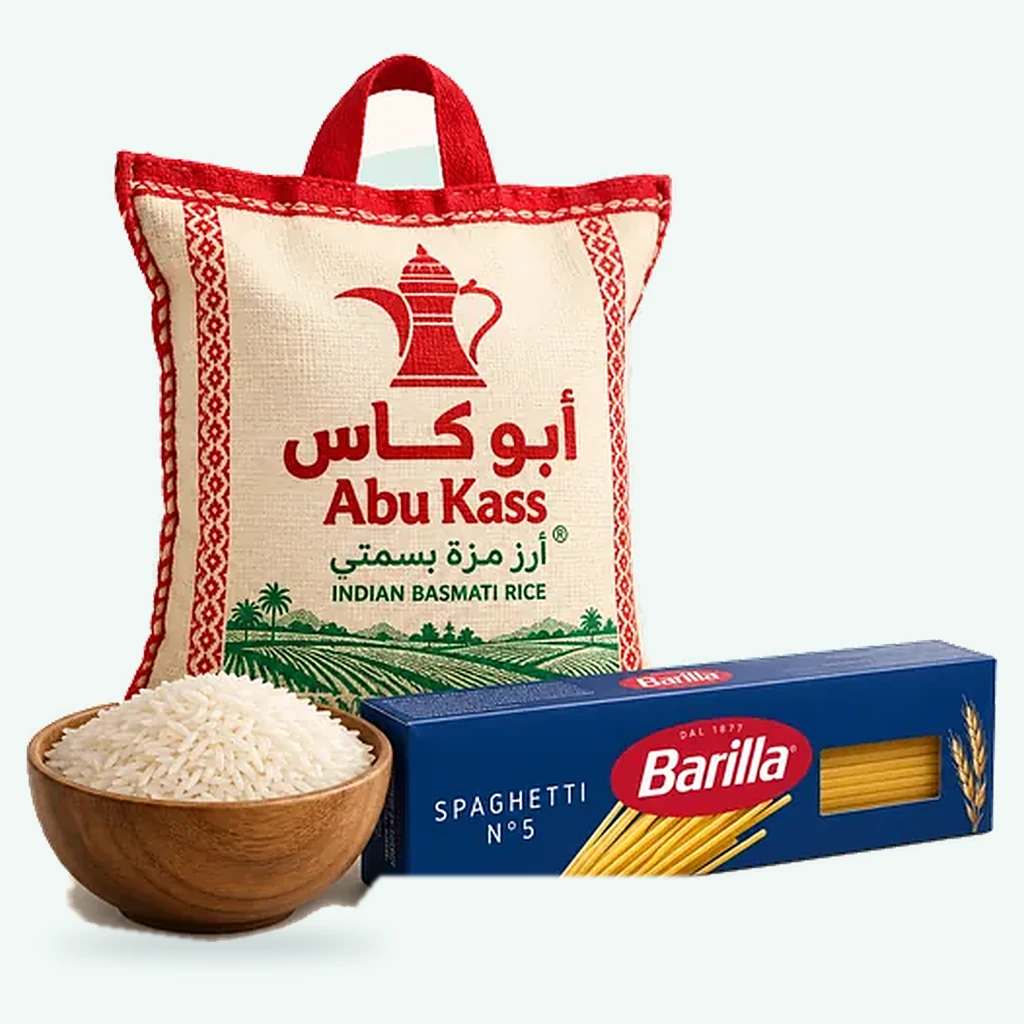
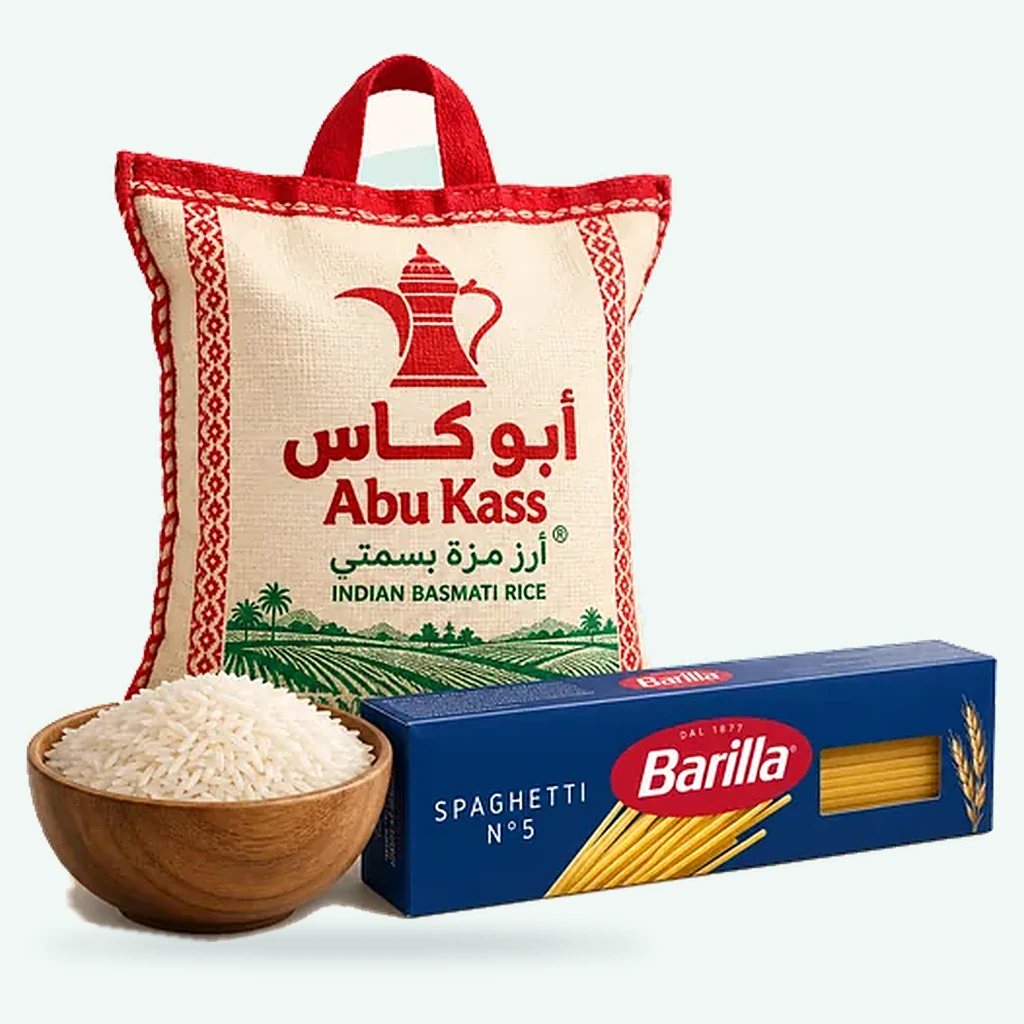
Category tiles: round 2 critique, 68 of 70 live
Claude-Session: https://claude.ai/code/session_01Qb8xUvC7Auf1qNT2o2kfnj

Changed region(s): [[0.3438, 0.8438, 0.6875, 0.9375]]

diff --git a/design/outputs/category-tiles/CRITIQUE-tiles.md b/design/outputs/category-tiles/CRITIQUE-tiles.md
@@ -166,3 +166,96 @@
 \* 101 يرفع بعد تثبيت اسمه في اللوحة ("اللحوم" أو "لحم البقر والضأن").
 
 **بعد الإصلاح:** تعود المربعات الـ 13 إلى الناقد لجولة قصيرة، فلا تُرفع مباشرة.
+
+---
+
+## Round 2: مراجعة الإصلاحات (2026-10-23)
+
+**المراجَع:**
+- 13 مربعاً محجوباً أُصلحت.
+- 4 بدائل اختيارية v2، بحسب `HANDOFF-tiles.md` القسم 00.
+
+**الطريقة:**
+- القياس بسكربتي نفسه، وعتبته 10 درجات بعد استبعاد ظل التلامس.
+- فحص بصري بالدقة الكاملة (1024) وبمقاس 500px.
+- التحقق من "ما نبيعه" بالعنوان في `jarna/t_all.json` (حقل `product_details`، 7464 منتجاً).
+
+**لم أعدّل أي صورة، ولم أنفّذ commit.**
+
+### R2.1 الحكم
+
+| | المربعات |
+|---|---|
+| **يُعتمد ويُرفع الآن (11 + 2 بديل)** | 11، 16، 17، 19، 22، 34، 35، 43، 51، 53، 106، و**`cat44-v2`** و**`cat64-v2`** بدلاً من 44 و64 الحاليين |
+| **ما زال محجوباً (2)** | **9** و**12**: الإصلاح ترك أثراً جديداً أو بقية من العيب القديم (انظر R2.3) |
+| **بدائل v2 مرفوضة (يبقى الحالي)** | **`cat27-v2`** و**`cat102-v2`** (انظر R2.4). المربعان 27 و102 الحاليان معتمدان من الجولة الأولى ويبقيان |
+
+### R2.2 القياس
+
+**كل المربعات الـ 17 تجتاز العتبات. ورقم 101: اسمه في اللوحة "اللحوم"، كما أكّد المنسّق، فيُرفع.**
+
+| المربع | المساحة | الارتفاع | العرض | ملاحظة |
+|---|---|---|---|---|
+| 9 | 45.1 | 86.9 | 94.9 | |
+| 11 | 50.7 | 87.5 | 94.7 | |
+| 12 | 43.9 | 87.2 | 81.4 | |
+| 16 | 58.1 | 87.3 | 92.9 | |
+| 17 | 61.2 | 87.1 | 95.2 | |
+| 19 | 44.7 | **75.3** | 95.2 | على الحد |
+| 22 | 45.7 | 86.9 | 84.4 | |
+| 34 | 63.7 | 86.0 | 95.1 | |
+| 35 | 66.4 | 87.5 | 95.0 | |
+| 43 | 59.2 | 87.4 | 95.2 | |
+| 51 | 70.4 | 87.5 | 94.7 | |
+| 53 | 53.3 | 87.5 | 92.7 | |
+| 106 | 67.4 | 79.3 | 94.9 | |
+| 27-v2 | 58.0 | 87.5 | 80.7 | 3 منتجات |
+| 44-v2 | 54.0 | 87.5 | 94.5 | بعتبة 25 درجة: 39.8%، بسبب الكيس الشفاف |
+| 64-v2 | 71.0 | 87.1 | 95.2 | الحالي ارتفاعه 75.8% |
+| 102-v2 | 57.1 | 87.3 | 95.1 | الحالي مساحته 43.2% |
+
+**لقطات أخرى:**
+- **القياس المعلن:** يطابق قياسي في كل الصفوف (فرق ≤ 1 نقطة).
+- **الخلفية:** `#F1F8F6` في الزاوية. ولا يقصّ شيئاً من المنتجات نصفُ قطر الزوايا.
+
+### R2.3 لكل مربع: العيب السابق، والجديد، وما نبيعه
+
+| المربع | العيب السابق | عيب جديد؟ | ما نبيعه (`t_all.json`) | الحكم |
+|---|---|---|---|---|
+| **9** | زال الظل الدرجي | **نعم: القناع قصّ الركن السفلي الأيسر لعلبة باريلا.** حافة العلبة السفلية مقطوعة أفقياً، وتحتها مستطيل فاتح حاد الحواف بين الوعاء والعلبة (نحو x 400–440، y 880–900) | Abu Kass، وBarilla N°5 Spaghetti 500 g | **محجوب.** يُعاد القناع ليتبع حافة العلبة، أو تُكمَل حافة العلبة السفلية، ثم يُطبَّق الظل الموحد تحتها |
+| **12** | زالت بقعة الظل البيج، و**بقي جزء من الخط الرمادي**: عقب داكن نحو 25×4px يخرج من يمين الطماطم الأمامية (نحو x 455–475، y 870) | لا | Heinz Tomato Ketchup، وTabasco Red Pepper 60 ml | **محجوب.** إصلاح دقيقة: يُمسح العقب. غير مرئي بمقاس 150px، لكن العيب الذي حُجب بسببه لم يزل كاملاً |
+| 11 | زال: لا وعاء، واسم قوت آند روت كامل | لا. الكيس بحوافه البلاستيكية الشفافة نظيف | Qoot & Root Superior flour 1 kg، وFoster Clarks Baking Powder 225 g | **يُعتمد** |
+| 16 | زال الشريط الأزرق. حافة العلبة مخفية خلف وايت هارفست | علبة الشوفان تغطي "S" من FLAKES، والاسم مقروء | Kellogg's Corn Flakes، وWhite Harvest Oats 400 g | **يُعتمد** |
+| 17 | زال: نوتيلا كاملة بغطائها الأبيض | لونا تغطي جزءاً من "FERRERO" الصغيرة فقط، و"nutella" كاملة | Nutella … 400 g، وLuna Peanut Butter Crunchy 340 g | **يُعتمد** |
+| 19 | زال: لا ملعقة ولا بودرة، والصحن سليم | لا. الارتفاع 75.3% على الحد | Langnese Bee Honey Natural 250 g | **يُعتمد** (يُستحسن تكبير 2–3% لاحقاً) |
+| 22 | زال: الربيع بدل Al Kabie | لا. حافة نصف البرتقالة والكرتون نظيفتان | Alrabie Orange Juice 1 L. ومانجو المراعي يقابله "Almarai Mango & Grape Nectar 300 ml" (العبوة نفسها) | **يُعتمد** |
+| 34 | زال: علبتان قائمتان بطبيعتهما، وكلا الاسمين مقروء | لا | Saudia Ice Cream Chocolate Tubs 1 L، وQUANTA ICE Almond Stick Mini 6×50 ml | **يُعتمد** |
+| 35 | زال: لا وعاء ولا ملعقة، و"مهباج" كاملة | لا | Tak Tat USA Almond 250 g، وAlmehbaj (مشكّل فاخر 250 جم، في `b*_meta`) | **يُعتمد** |
+| 43 | زال: أكياس حفظ طعام وعلب ميكروويف، ويُقرأ "حفظ الطعام" فوراً | لا | Sanita Food Storage Bags 25، وHotpack HD Microwave Container 750 ml 10 Pcs | **يُعتمد** |
+| 51 | زال: لا موس ولا ماكينة | عبوة Blue II تغطي "e" الأخيرة من Gillette ورقم "4". الاسم مقروء، والعلامة مكررة على العبوة الثانية. منخفضة | Gillette Blue 3 Blade Razor 4 Pcs، وGillette Blue 2 Shaving Razor 10 Pcs | **يُعتمد** (يُستحسن إزاحة Blue II يميناً 3–4%) |
+| 53 | زال: لا لوريال | لطخة اللون الوردي خلف أحمر الخدود وغطاء الأصبع الأبيض خلف الباليت من صورة المصدر نفسها، لا بقايا قصّ. يُقرأ مكياجاً فوراً | Bogenia Natural Glow Blush Stick 001، وBogenia Eyeshadow Palette Galaxy 12 002 | **يُعتمد** |
+| 106 | زال: ساديا الصفراء تختلف بوضوح عن 15 (سيارا برتقالية)، واللحم ظاهر | لا | Sadia Marinated Breast Arabic Spices 600 g، وRadwa Frozen Breast Fillet 450 g | **يُعتمد** |
+
+### R2.4 البدائل v2: هل هي أفضل من الحالي؟
+
+| الملف | أفضل؟ | الدليل | الحكم |
+|---|---|---|---|
+| **`cat44-v2`** | **نعم، بفارق صغير** | الحلقة الزرقاء على الصحن تفصله عن الخلفية النعناعية، وكان الصحن الأبيض الحالي باهتاً. والملاعق تضيف دلالة "سفرة". الكيس الشفاف حول الصحن نظيف بلا هالة. وما نبيعه موجود: Watania Plate Medium Round 50 Pcs، وRitco Large White Spoons 50 Pcs | **يُعتمد بدلاً من 44** |
+| **`cat64-v2`** | **نعم** | الجهاز وشاشته ظاهران على العلبة، والارتفاع 87.1% بدل 75.8% (الحالي على الحد). ويُقرأ "أجهزة صحية" بنظرة. وما نبيعه موجود: GO Care BP Monitor GC-BP130، وGo Care Mini Forehead Thermometer | **يُعتمد بدلاً من 64** |
+| **`cat27-v2`** | المحتوى أفضل (بروتين ومن دون سكر، فيُقرأ "صحية" أوضح من Prime)، **لكن فيه عيب جديد** | 1. **غطاء زجاجة Grenade شريط رمادي شبحي منفصل** يطفو فوق الزجاجة بفجوة (نحو x 620–960، y 50–110). عيب قصّ ظاهر حتى بمقاس 150px. 2. **3 منتجات** ليست صغيرة، والمواصفة تسمح بـ 1–2 فقط (3 للصغيرة) | **مرفوض كما هو.** الإصلاح: يُحذف Grenade، وتبقى المراعي بروتين + إنشور. أو يُستبدل الغطاء الشبحي بقصّ صحيح من مصدر آخر وتُحذف واحدة. ويبقى 27 الحالي حتى ذلك |
+| **`cat102-v2`** | المحتوى أفضل (الزبدة صارت ظاهرة، فيطابق "الأجبان والزبدة")، **لكن فيه مشكلتان** | 1. **عبوة الزبدة عليها شريط أحمر كبير "عرض خاص"**. مربع الفئة دائم، والعرض مؤقت ويتغير، وهذا يعِد بعرض قد لا يوجد. ويخالف روح قاعدة "لا رقم ولا وعد" في البنر (`CLAUDE.md`). 2. علبة الزبدة تغطي نهاية "zanetti" | **مرفوض كما هو.** الإصلاح: صورة زبدة المراعي بلا شريط عرض (مثل Almarai Butter Unsalted Natural 100 g، القطعة المفردة)، وتُزاح لتظهر "zanetti" كاملة. ويبقى 102 الحالي حتى ذلك |
+
+### R2.5 ملاحظات على التسليم (القسم 00)
+
+- **دقيق ومطابق لما في الصور** في الـ 13 مربعاً، ولم أجد في أي منها منتجاً لا نبيعه.
+- **`n_products` صار رقماً.** والصف 27-v2 يقول 3، وهذا صحيح، لكنه يخالف المواصفة (R2.4).
+- **التسليم يذكر أن الـ 57 لم تُلمس.** لم أتحقق من ذلك بالبصمة. أوصي بمقارنة `sha256` للملفات الـ 57 مع ما رُوجع في الجولة الأولى قبل الرفع، إن كانت البصمات محفوظة.
+
+### R2.6 الخلاصة
+
+- **يُرفع الآن: 70 − 2 = 68 مربعاً.**
+  - الـ 57 من الجولة الأولى، ومنها 101 باسم "اللحوم".
+  - 11 أُصلحت: 11، 16، 17، 19، 22، 34، 35، 43، 51، 53، 106.
+  - ويُستبدل 44 بـ `cat44-v2`، و64 بـ `cat64-v2`.
+- **محجوب:** 9 (ركن باريلا مقصوص بالقناع)، و12 (عقب الخط الرمادي باقٍ). كلاهما إصلاح دقائق، ويعودان للناقد بنظرة سريعة.
+- **v2 مرفوض:** `cat27-v2` (غطاء شبحي + 3 منتجات)، و`cat102-v2` (شريط "عرض خاص" + اسم زانيتي مغطى). ويبقى 27 و102 الحاليان.
